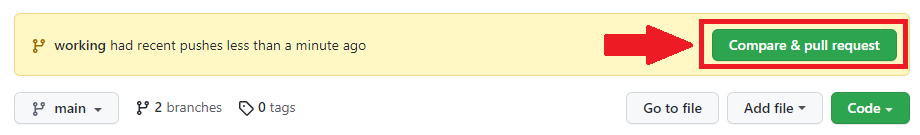
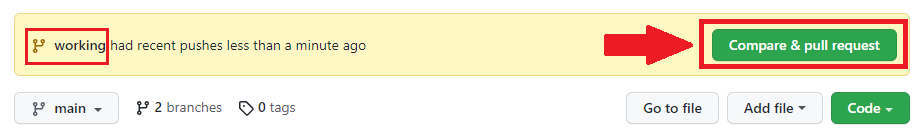
++

Changed region(s): [[0.0, 0.2074, 0.1217, 0.5037]]

diff --git a/README.md b/README.md
@@ -6,7 +6,7 @@ Create a separate branch for the new feature or issue. Update, add, commit, and 
 
 ## Start a pull request (PR)
 
-Once you finish the work in the dedicated branch, you are ready to make a PR to the main branch.
+Once you finish the work in the dedicated branch, you are ready to make a PR to the target main branch.
 
 <img src="./images/PR_review_process.png" width="500px"/>
 
@@ -14,7 +14,7 @@ Once you finish the work in the dedicated branch, you are ready to make a PR to 
 
 #### In your repository
 
-The `Compare & pull request` button will appear in GitHub repository after you push any changes. Click on that button will navigate to allow you to open a PR.
+The `Compare & pull request` button will appear in your repository after you push any changes. Check the branch in that message box to ensure it is the one for which you want to create a PR, and then click the button.
 
 <img src="./images/web-page-pull-request.png" width="700px"/>
 
@@ -44,6 +44,7 @@ If you navigate through `Compare & pull request` button, it should automatically
 <img src="./images/base-compare.png" width="700px"/>
 
 **base:** the branch where you want to merge your changes into.
+
 **compare:** the topic branch where you made your changes.
 
 ### 3. Write your PR title and description
@@ -56,18 +57,20 @@ The [PR template](./pull-request-template.md) will automatically apply to the de
 
 You can also toggle to see a preview of the description.
 
-<img src="./images/pullrequest-description-preview.png" width="800px"/>
+<img src="./images/pullrequest-description-preview.png" width="1000px"/>
 
 ### 4. Request reviewers
 
 Go to `Reviewers` and select users from the list to review your PR.
 
-### 5. Submit pull request
+<img src="./images/select-reviewer.png" width="800px"/>
+
+### 5. Submit PR
 
 Before submitting this PR, ensure that you have reviewed all of your changes, then click on `Create pull request`.
 
 ### 6. Sit tide and wait for your PR review to be completed.
 
-[Code Review guide](./code-review-guide.md)
+[Code review guide](./code-review-guide.md)
 
-### 7. merge requests
+### 7. Merge PR
